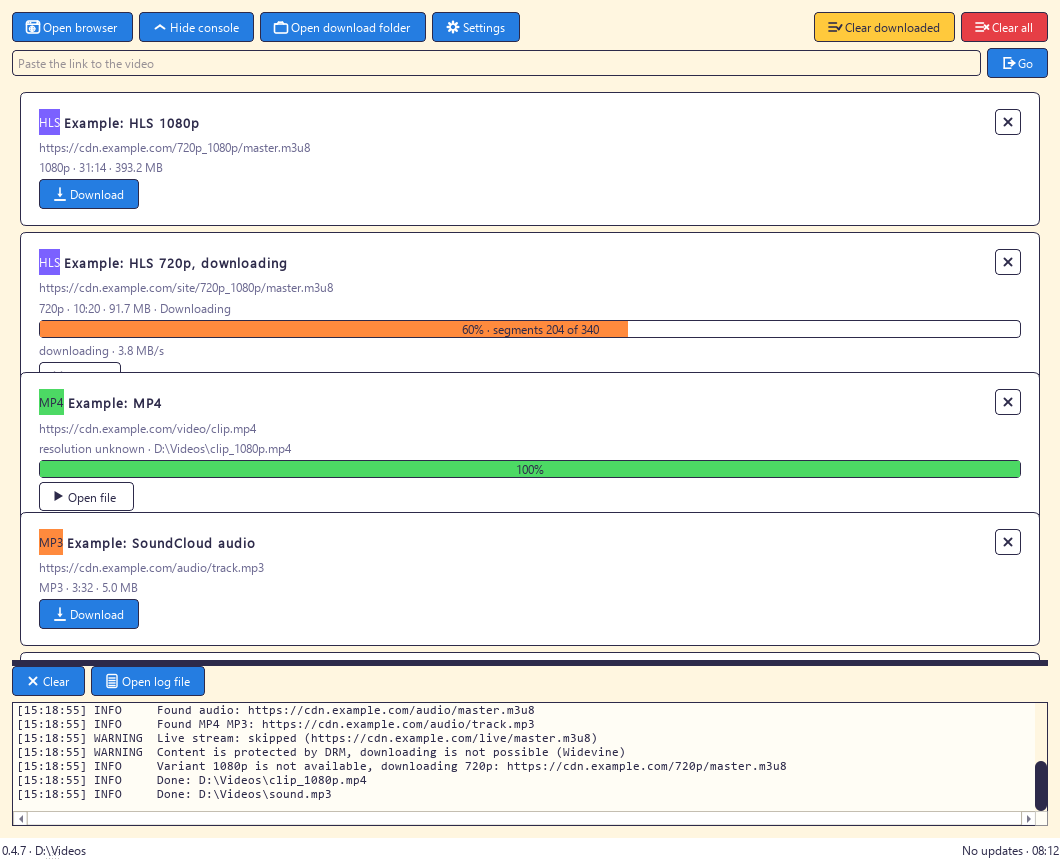
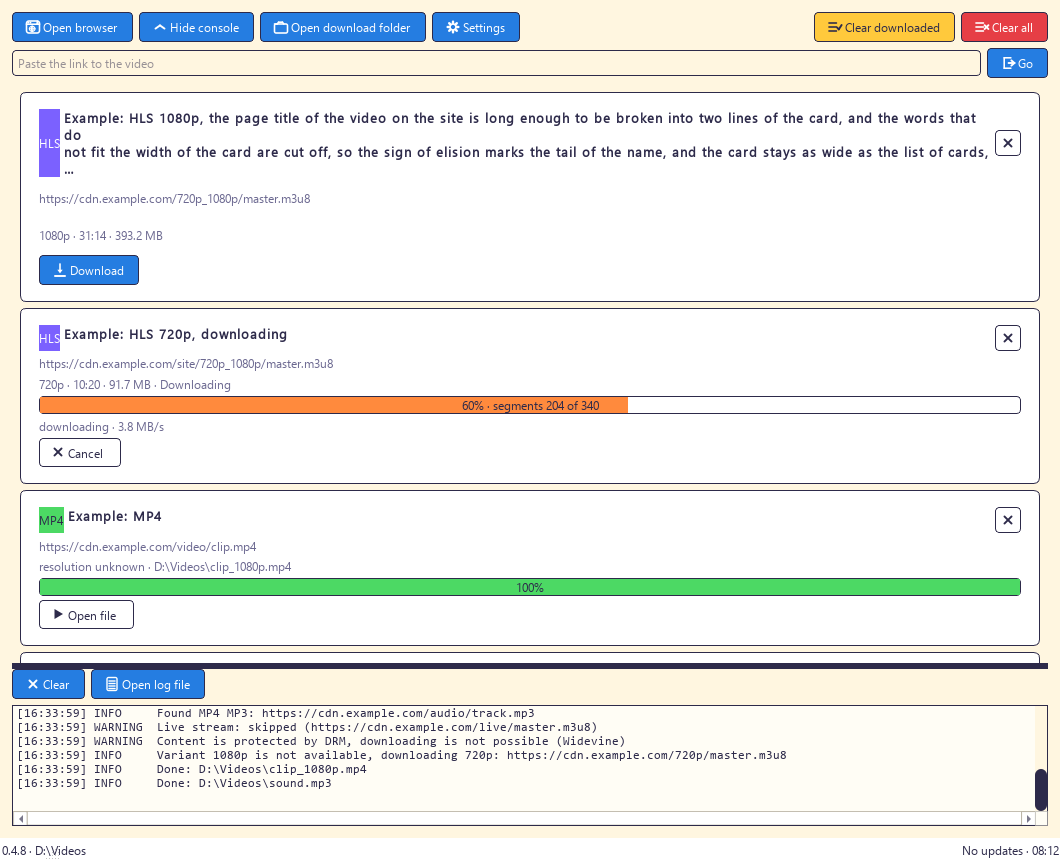
update

Changed region(s): [[0.0, 0.1209, 0.9962, 0.9372], [0.9651, 0.8767, 0.9962, 0.907], [0.934, 0.4535, 0.9651, 0.4837]]

diff --git a/tools/make_screenshots.py b/tools/make_screenshots.py
@@ -48,11 +48,12 @@ OUT = Path("assets") / "screenshots"
 DOWNLOADS = Path("D:\\Videos")
 #: Version printed in the console lines: the screenshots are for the release page,
 #: so the tag is written out and stays stable between runs.
-DISPLAY_VERSION = "0.4.7"
+DISPLAY_VERSION = "0.4.8"
 WINDOW_SIZE = (1060, 860)
-#: Splitter sizes of the screenshot: the five demo cards, the row of the console
-#: buttons and a dozen console lines.
-CARD_SECTION_HEIGHT = (690, 170)
+#: Splitter sizes of the screenshot: the five demo cards (one of them takes two
+#: lines of its long title), the row of the console buttons and a dozen console
+#: lines.
+CARD_SECTION_HEIGHT = (706, 170)
 UI_FONT = "Segoe UI"
 #: The offscreen platform has no font database: the letters become boxes
 #: until the fonts of Windows are registered in the application.
@@ -73,7 +74,20 @@ def demo_cards() -> list[SourceEntry]:
             kind="hls",
             url="https://cdn.example.com/720p_1080p/master.m3u8",
             normalized="https://cdn.example.com/720p_1080p/master.m3u8",
-            title="Example: HLS 1080p",
+            # A long page title is broken by the width of the card: the screenshot
+            # shows the card of two lines and the sign of elision at the cut.
+            title=(
+                "Example: HLS 1080p, the page title of the video "
+                "on the site is long enough to be broken into two "
+                "lines of the card, and the words that do not fit "
+                "the width of the card are cut off, so the sign of "
+                "elision marks the tail of the name, and the card "
+                "stays as wide as the list of cards, and the list "
+                "stays as wide as the window of the program, and "
+                "the tooltip of the card keeps the whole title "
+                "of the video that works in the tray with the "
+                "window of the program hidden on the desktop"
+            ),
             height=1080,
             duration=1874.0,
             size=412_321_024,
